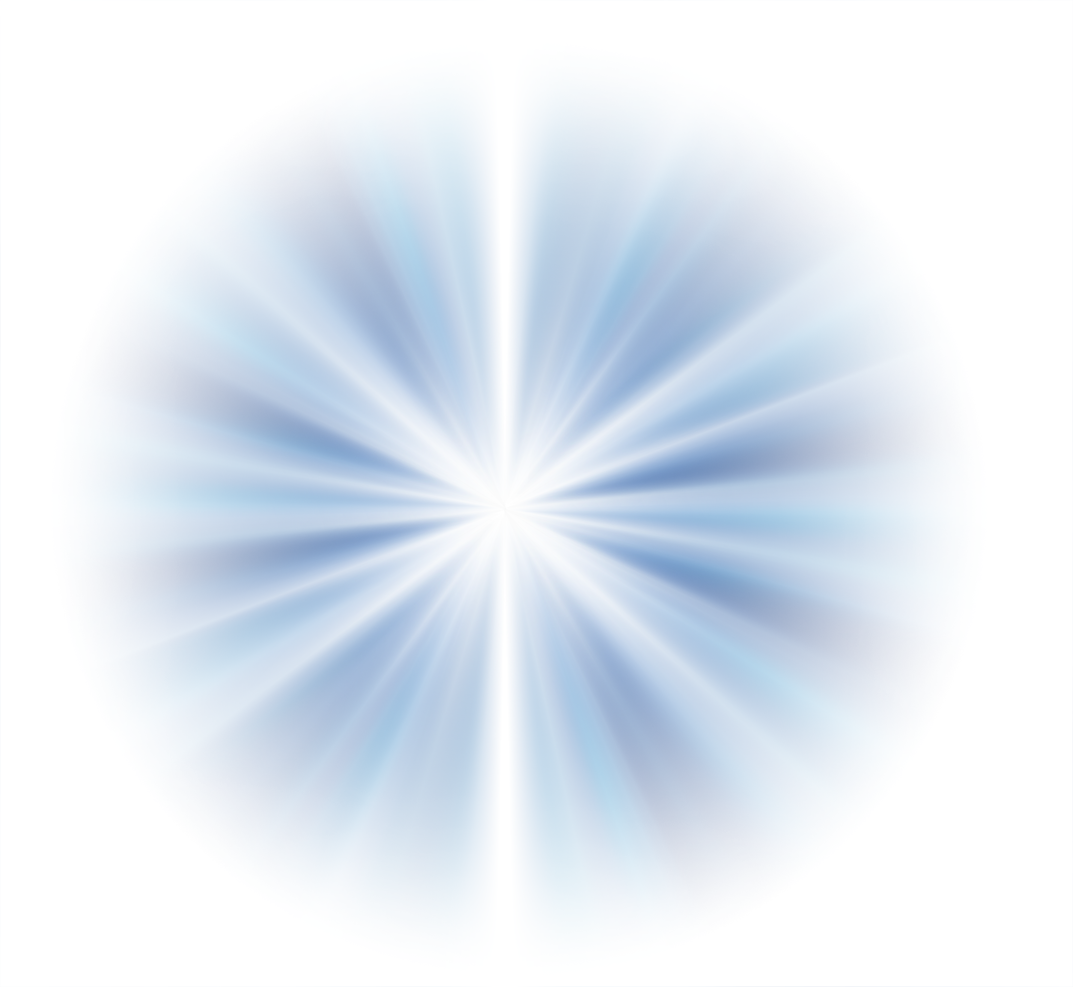
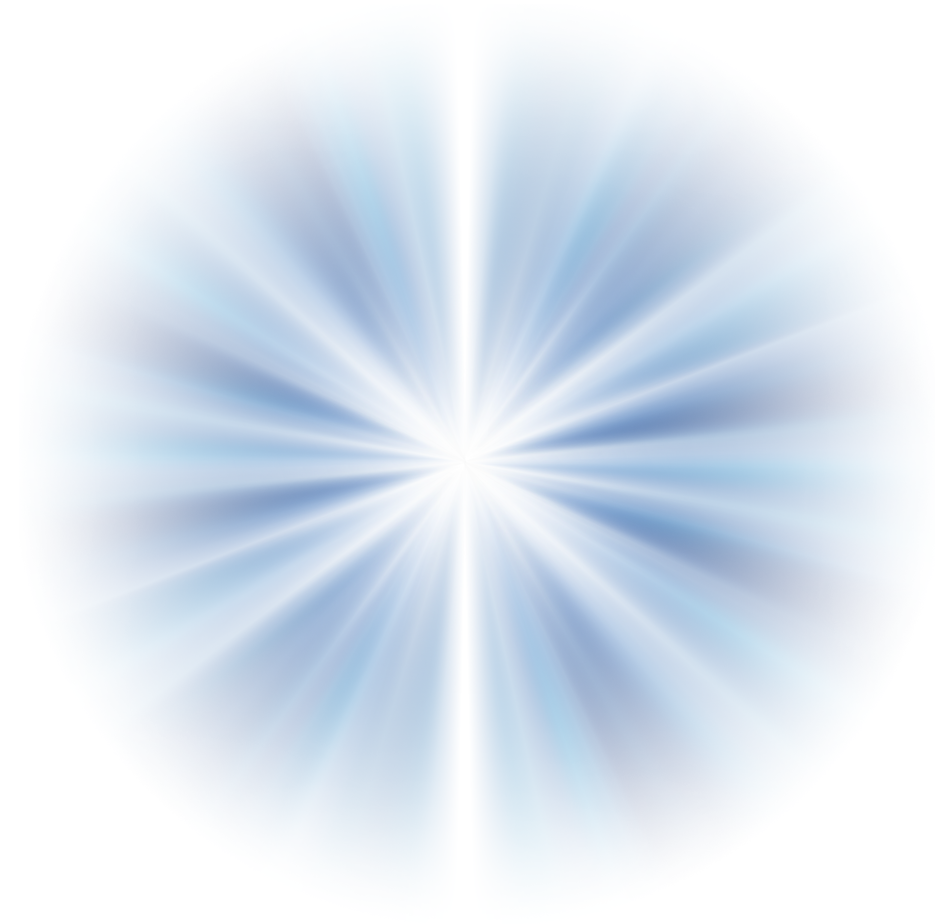
图片更换

diff --git a/css/triangle.css b/css/triangle.css
@@ -203,7 +203,7 @@
   z-index: 3;
   background-image: url('../img/7-大光线.png');
   background-repeat: no-repeat;
-  background-size: 115%;
+  background-size: 100%;
   animation:changeleft 6s linear infinite;
   -webkit-animation:changeleft 6s linear infinite;
   border-radius: 50%;

diff --git a/css/triangle_phone.css b/css/triangle_phone.css
@@ -198,7 +198,7 @@
   z-index: 3;
   background-image: url('../img/7-大光线.png');
   background-repeat: no-repeat;
-  background-size: 115%;
+  background-size: 100%;
   animation:changeleft 6s linear infinite;
   -webkit-animation:changeleft 6s linear infinite;
   border-radius: 50%;
